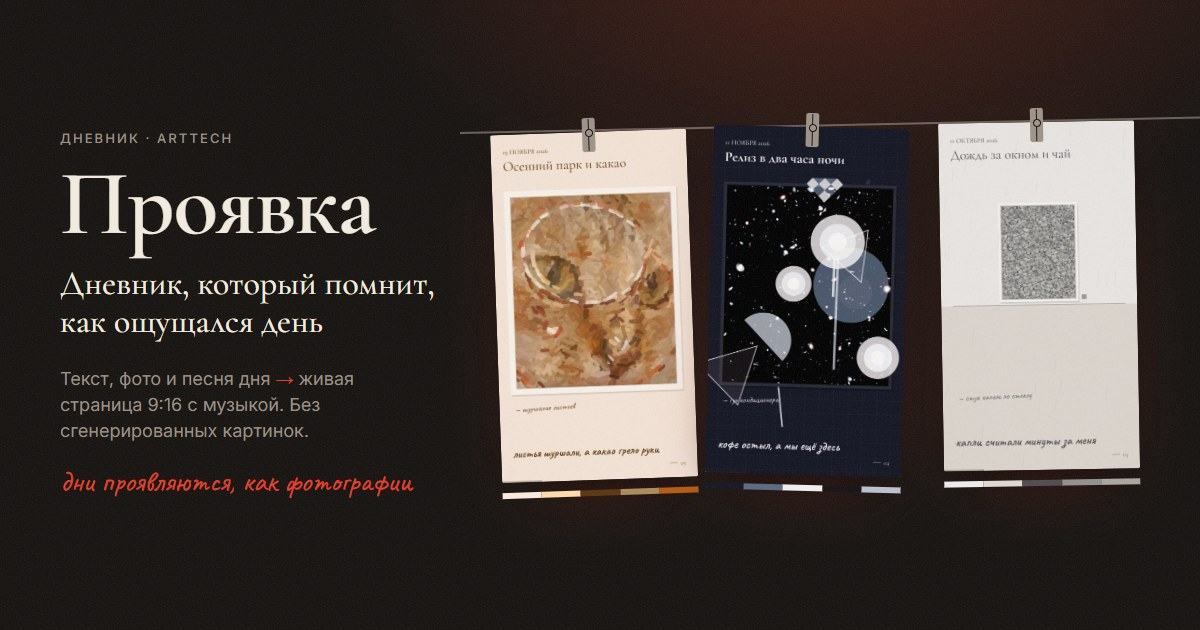
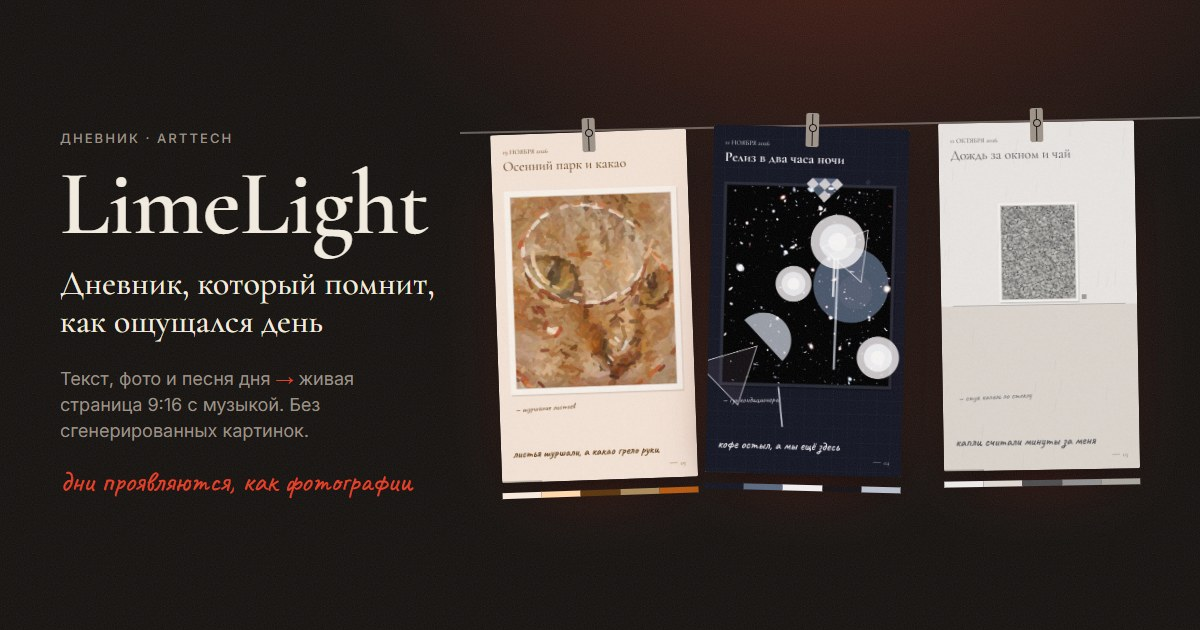
Название LimeLight: шапка, экран проявки, обложка книги, мета-теги, og.jpg

Changed region(s): [[0.0617, 0.2714, 0.37, 0.4222]]

diff --git a/frontend/index.html b/frontend/index.html
@@ -13,24 +13,24 @@
         document.documentElement.dataset.theme = "dark";
       }
     </script>
-    <title>Проявка — дневник, который помнит, как ощущался день</title>
+    <title>LimeLight — дневник, который помнит, как ощущался день</title>
     <meta name="description" content="Текст, фото и песня дня превращаются в живую страницу-воспоминание 9:16 с музыкой. Всё строится из ваших фото и песни, без сгенерированных картинок." />
     <link rel="icon" href="/favicon.svg" type="image/svg+xml" />
     <link rel="icon" href="/favicon-32.png" type="image/png" sizes="32x32" />
     <link rel="apple-touch-icon" href="/apple-touch-icon.png" />
 
     <meta property="og:type" content="website" />
-    <meta property="og:site_name" content="Проявка" />
+    <meta property="og:site_name" content="LimeLight" />
     <meta property="og:locale" content="ru_RU" />
     <meta property="og:url" content="https://proyavka-eight.vercel.app/" />
-    <meta property="og:title" content="Проявка — дневник, который помнит, как ощущался день" />
+    <meta property="og:title" content="LimeLight — дневник, который помнит, как ощущался день" />
     <meta property="og:description" content="Текст, фото и песня дня превращаются в живую страницу 9:16 с музыкой. Без сгенерированных картинок." />
     <meta property="og:image" content="https://proyavka-eight.vercel.app/og.jpg" />
     <meta property="og:image:width" content="1200" />
     <meta property="og:image:height" content="630" />
-    <meta property="og:image:alt" content="Три страницы-воспоминания Проявки рядом: Моне, Кандинский и Ма" />
+    <meta property="og:image:alt" content="Три страницы-воспоминания LimeLight на верёвке: Моне, Кандинский и Ма" />
     <meta name="twitter:card" content="summary_large_image" />
-    <meta name="twitter:title" content="Проявка — дневник, который помнит, как ощущался день" />
+    <meta name="twitter:title" content="LimeLight — дневник, который помнит, как ощущался день" />
     <meta name="twitter:description" content="Текст, фото и песня дня превращаются в живую страницу 9:16 с музыкой." />
     <meta name="twitter:image" content="https://proyavka-eight.vercel.app/og.jpg" />
     <link rel="preconnect" href="https://fonts.googleapis.com" />

diff --git a/frontend/src/components/DevelopingScreen.tsx b/frontend/src/components/DevelopingScreen.tsx
@@ -92,7 +92,7 @@ export default function DevelopingScreen({ phase, upload, photo, error, onRetry,
       {/* красная лампа над ванночкой */}
       <div aria-hidden className="pointer-events-none fixed inset-x-0 top-0 h-[70vh] bg-[radial-gradient(ellipse_60%_70%_at_50%_-10%,rgb(var(--safelight)/0.22),transparent_70%)]" />
       <div className="relative mx-auto max-w-4xl px-4">
-        <p className="py-4 font-serif text-2xl font-semibold tracking-tight text-text/80">Проявка</p>
+        <p className="py-4 font-serif text-2xl font-semibold tracking-tight text-text/80">LimeLight</p>
         <div className="grid items-start gap-10 pb-12 pt-2 md:grid-cols-[280px_1fr] md:pt-8">
           <div className="mx-auto w-52 md:w-full">
             {/* ванночка с проявителем: отпечаток лежит в жидкости, по ней гуляет блик */}

diff --git a/frontend/src/pages/Archive.tsx b/frontend/src/pages/Archive.tsx
@@ -139,7 +139,7 @@ function Book({ days, nums }: { days: Day[]; nums: Map<string, number> }) {
         <Page className="!bg-[#3b2f27] text-print">
           <div className="flex h-full flex-col items-center justify-center border-[10px] border-[#3b2f27] p-8 text-center outline outline-1 outline-offset-[-18px] outline-[#c9a77c]/50">
             <p className="label !text-[#c9a77c]">дневник</p>
-            <p className="mt-4 font-serif text-5xl font-semibold">Проявка</p>
+            <p className="mt-4 font-serif text-5xl font-semibold">LimeLight</p>
             <p className="mt-4 max-w-[16rem] font-serif text-lg italic text-print/70">как ощущался каждый день</p>
             <p className="mt-10 font-hand text-2xl text-[#c9a77c]">листайте →</p>
           </div>

diff --git a/frontend/src/components/Layout.tsx b/frontend/src/components/Layout.tsx
@@ -42,7 +42,7 @@ export default function Layout() {
       <header className="sticky top-0 z-30 border-b border-line/70 bg-room/95">
         <div className="mx-auto flex max-w-6xl items-center gap-2 px-4 py-3 sm:gap-3">
           <NavLink to="/" className="mr-auto font-serif text-2xl font-semibold tracking-tight">
-            Проявка
+            LimeLight
             {USE_MOCK && <span className="ml-2 align-middle font-sans text-[11px] font-normal uppercase tracking-widest text-muted">демо</span>}
           </NavLink>
           <nav className="hidden gap-1 md:flex">

diff --git a/DESIGN.md b/DESIGN.md
@@ -1,7 +1,7 @@
-# DESIGN.md — Проявка
+# DESIGN.md — LimeLight
 
 ## Характер
-**Тёмная комната проявки.** Сайт — сама фотолаборатория: почти чёрная тёплая комната под красной лампой. Дни — светлые отпечатки, которые висят на верёвке и проявляются. Палитры дней на тёмном горят, интерфейс молчит и не спорит с фото пользователя. Избегаем: неона, фиолетовых градиентов, стекла с блюром, стоковых людей, иконок ради иконок.
+**LimeLight — тёмная комната проявки.** Сайт — сама фотолаборатория: почти чёрная тёплая комната под красной лампой. Дни — светлые отпечатки, которые висят на верёвке и проявляются. Палитры дней на тёмном горят, интерфейс молчит и не спорит с фото пользователя. Избегаем: неона, фиолетовых градиентов, стекла с блюром, стоковых людей, иконок ради иконок.
 
 **Фирменный приём:** вертикальная страница 9:16 с фото в паспарту, датой и названием сверху, рукописной подписью внизу и полоской палитры дня (5 цветов) под ней. Это «отпечаток»: светлая фотобумага с тёплым свечением на тёмном. Проходит через архив, экран проявки, плеер, презентацию и видео.
 
@@ -62,7 +62,7 @@
 - **Рецепт дня:** вход → правила → результат, правила строками «условие → следствие».
 - **Как это работает (/rules):** разделы с номером `safelight`: схема страницы на фотобумаге, таблица переменных, 5 техник с мини-страницами, таблица баллов, правила.
 - **Страница дня:** название в одну строку с соседними днями, плеер по центру во всю высоту экрана, под ним одна строка кнопок «▶ Открыть день · Озвучка · ⇣ Скачать папку · ● Видео», ниже «Рецепт дня» в три колонки.
-- **Превью ссылки (og.jpg, 1200×630):** тёмная комната с лампой и зерном, «Проявка» Cormorant 92, три отпечатка на верёвке с прищепками и полосками палитр. Иконка: отпечаток `print` с красным кадром на `room`. Только страницы без узнаваемых людей.
+- **Превью ссылки (og.jpg, 1200×630):** тёмная комната с лампой и зерном, «LimeLight» Cormorant 92, три отпечатка на верёвке с прищепками и полосками палитр. Иконка: отпечаток `print` с красным кадром на `room`. Только страницы без узнаваемых людей.
 
 ## Движение
 Одно авторское движение — проявление: Intro (цикл 3 с), лента (ч/б → цвет при наведении), экран проявки (по прогрессу), плеер (3 с при открытии). Кривые `cubic-bezier(0.16, 1, 0.3, 1)`. При `prefers-reduced-motion` циклы и блик выключаются.

diff --git a/PRODUCT.md b/PRODUCT.md
@@ -14,7 +14,7 @@ web
 
 ## Product Purpose
 
-Проявка превращает запись о дне (текст, 2–4 фото, песня) в «воспоминание дня»: вертикальную анимированную страницу 9:16, которая 20–30 секунд играет под эту песню. Всё сохраняется в папку дня с названием вроде «Осенний парк и какао».
+LimeLight превращает запись о дне (текст, 2–4 фото, песня) в «воспоминание дня»: вертикальную анимированную страницу 9:16, которая 20–30 секунд играет под эту песню. Всё сохраняется в папку дня с названием вроде «Осенний парк и какао».
 
 Успех: сдача 22.11.2026 23:59 (Астана) и защита перед жюри. Развитие после хакатона не планируется.
 
@@ -42,7 +42,7 @@ web
 
 ## Brand Commitments
 
-- Название «Проявка», метафора фотопроявки и тёмной комнаты.
+- Название «LimeLight» (с 21.11.2026, раньше «Проявка»); пишется слитно с двумя заглавными. Метафора — тёмная комната проявки: сайт — комната под красной лампой, дни — отпечатки.
 - Голос: на «ты», коротко, спокойно; ошибки по-человечески и с выходом.
 - Визуальная система и интерфейс зафиксированы в DESIGN.md (бумага, Cormorant Garamond / Inter / Caveat, сиена как единственный акцент, палитры дней только внутри страниц-воспоминаний).
 
